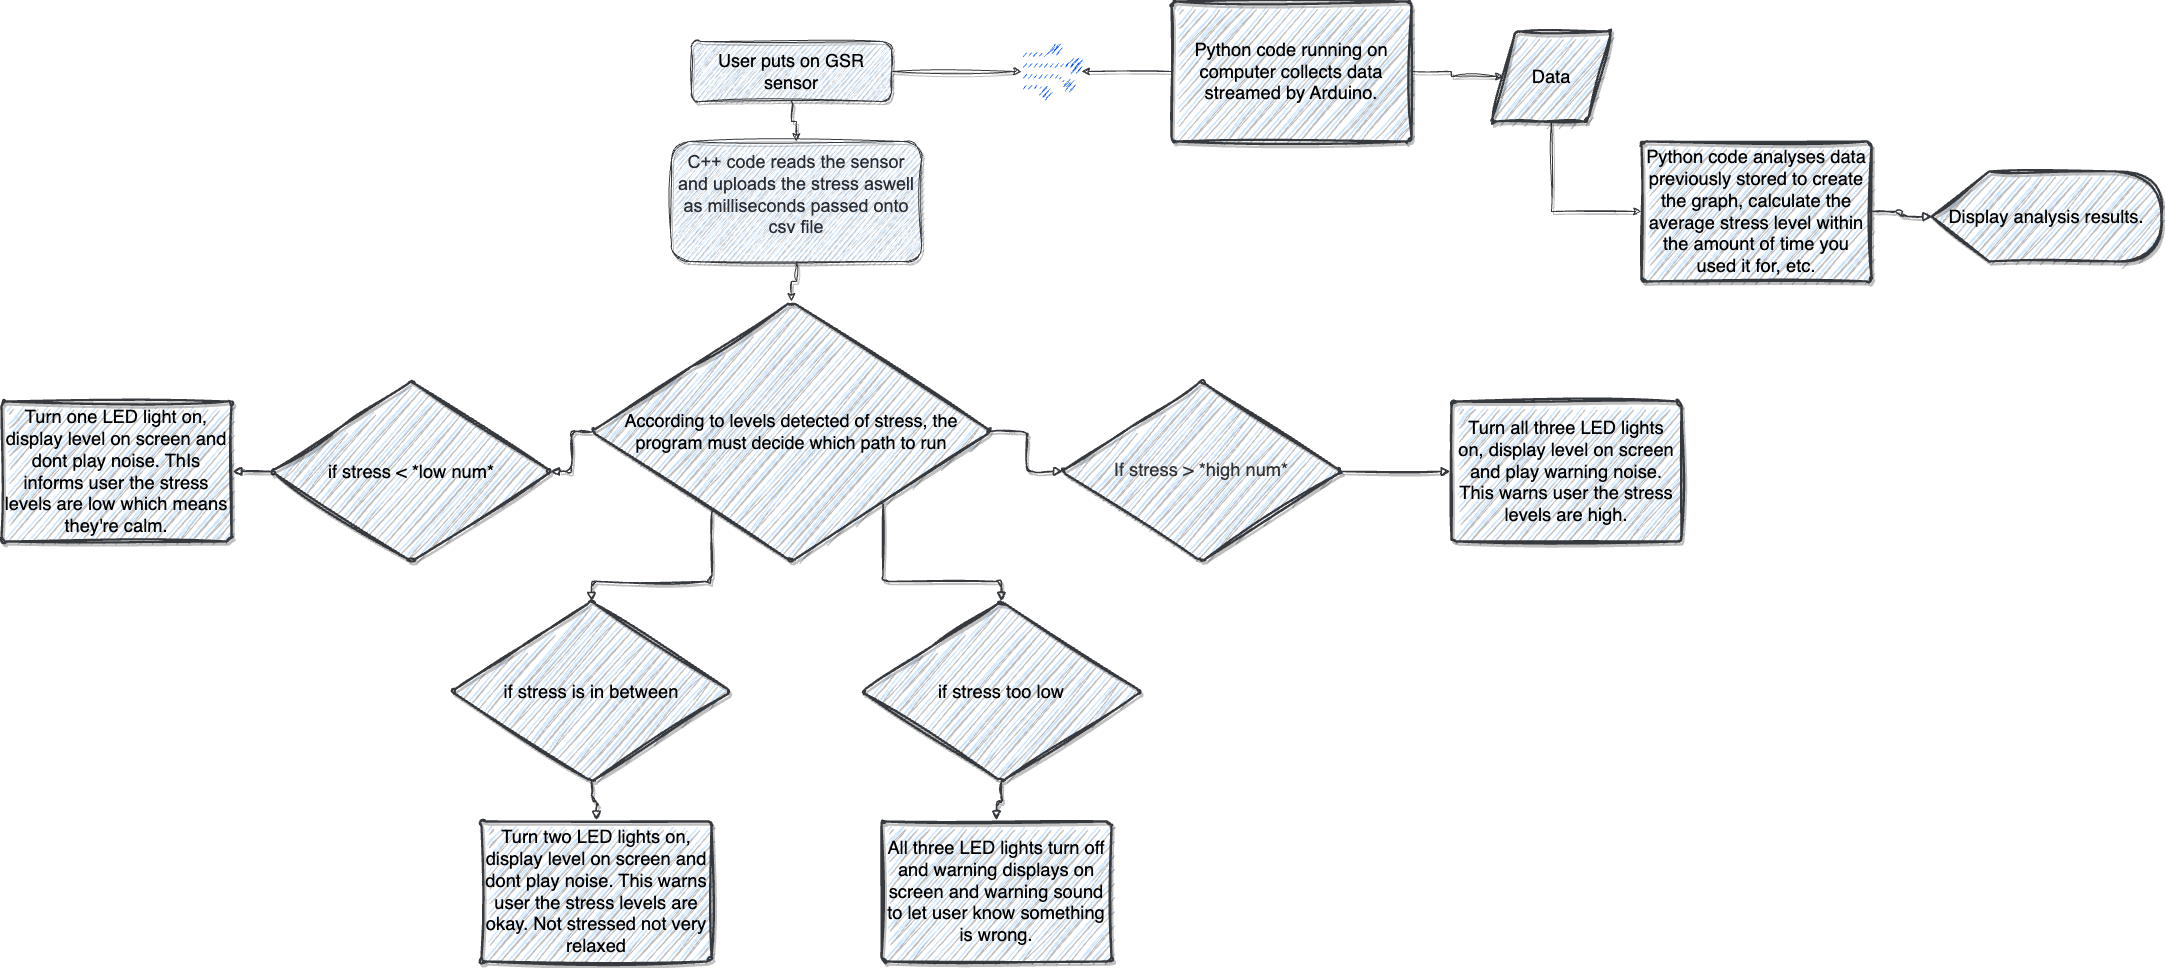
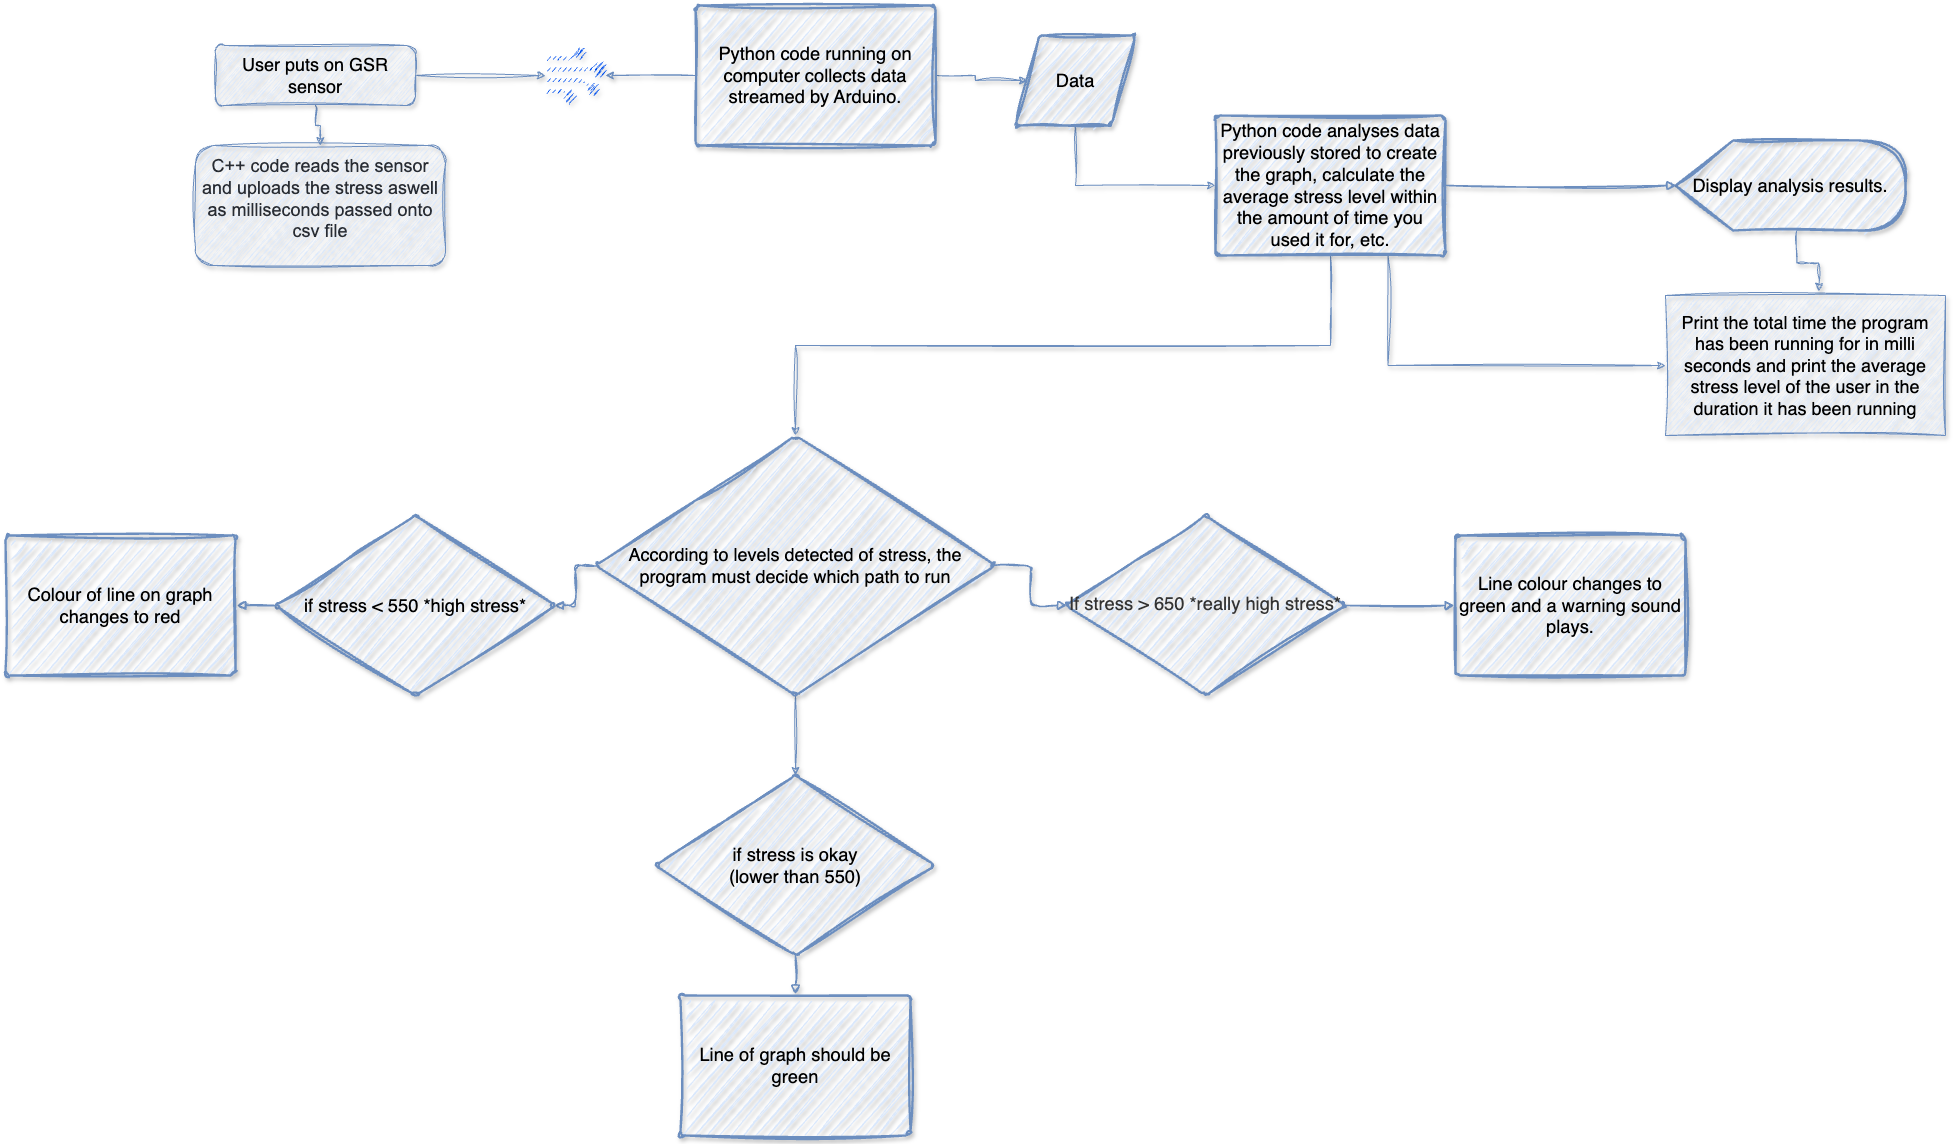
website is finished

Changed region(s): [[0.0, 0.3099, 0.8746, 1.0], [0.0937, 0.0, 1.0, 0.4029], [0.0937, 0.124, 0.2499, 0.2479]]

diff --git a/website/index.html b/website/index.html
@@ -75,6 +75,12 @@
     <div class="tab-content mt-4" id="myTabContent">
 
         <div class="tab-pane fade show active" id="brief-tab-pane" role="tabpanel" aria-labelledby="brief-tab" tabindex="0">
+            <div class="row">
+                <div class="col-6"><img src="img/graph.png" class="img-fluid"></div>
+                <div class="col-6"><img src="img/GSRsensor.jpeg" class="img-fluid"></div>
+            </div>
+            <br><br>
+            <h3>Brief Report Video</h3><br>
             <video class="img-fluid" controls="controls" name="Brief Video" ><source src="img/2444CCCF-BB4D-40D0-869A-5B82789344D1.mov"></video>
         </div>
 
@@ -143,6 +149,11 @@
 
             <p>
                 <h3>Flowchart</h3><br>
+                <div class="row"><div class="col-12"><img src="img/latest_flowchart.png" class="img-fluid"></div> </div><br>
+            </p>
+
+            <p>
+                <h3>Flowchart for Old Design</h3><br>
                 <div class="row">
                     <div class="col-12"><img src="img/flowchart.png" class="img-fluid"></div>
                 </div>
@@ -393,7 +404,7 @@
                 <tr>
                     <th scope="row">1</th>
                     <td>Brief</td>
-                    <td>Video</td>
+                    <td>45 + Video</td>
                 </tr>
                 <tr>
                     <th scope="row">2</th>
@@ -403,12 +414,12 @@
                 <tr>
                     <th scope="row">3</th>
                     <td>Plan and Design</td>
-                    <td>260</td>
+                    <td>264 + Flowcharts</td>
                 </tr>
                 <tr>
                     <th scope="row">4</th>
                     <td>Create</td>
-                    <td>idk</td>
+                    <td>847</td>
                 </tr>
                 <tr>
                     <th scope="row">5</th>
@@ -418,10 +429,11 @@
                 <tr>
                     <th scope="row">6</th>
                     <td>Total</td>
-                    <td>calculate</td>
+                    <td>2156</td>
                 </tr>
                 </tbody>
             </table>
+            (I am not counting the reference page in my word count)
 
         </div>
 
@@ -438,7 +450,7 @@
         </div>
 
         <ul class="nav col-md-4 justify-content-end list-unstyled d-flex">
-            <li class="ms-3"><a class="text-body-secondary" href="https://github.com/Pilo-cr/ProjectGSR"><i class="bi bi-github"></i></a></li>
+            <li class="ms-3"><a class="text-body-secondary" href="https://github.com/Pilo-cr/ProjectGSR" target="_blank"><i class="bi bi-github"></i></a></li>
 <!--  Code for after exams are back: <li class="ms-3"><a class="text-body-secondary" href="#"><i class="bi bi-instagram"></i></a></li>  -->
         </ul>
     </footer>
